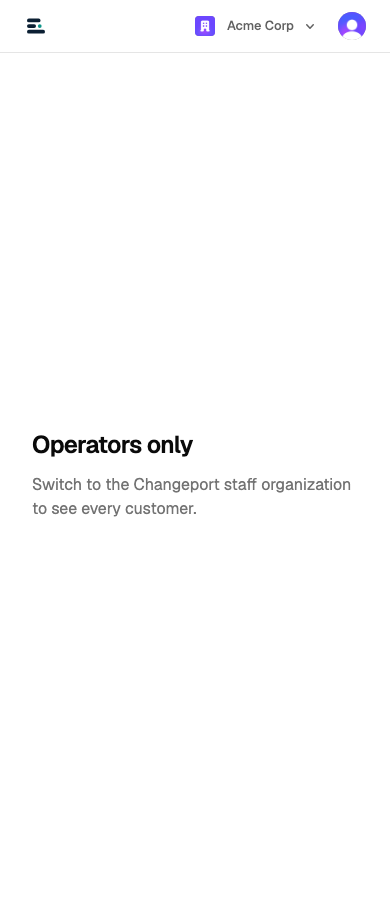
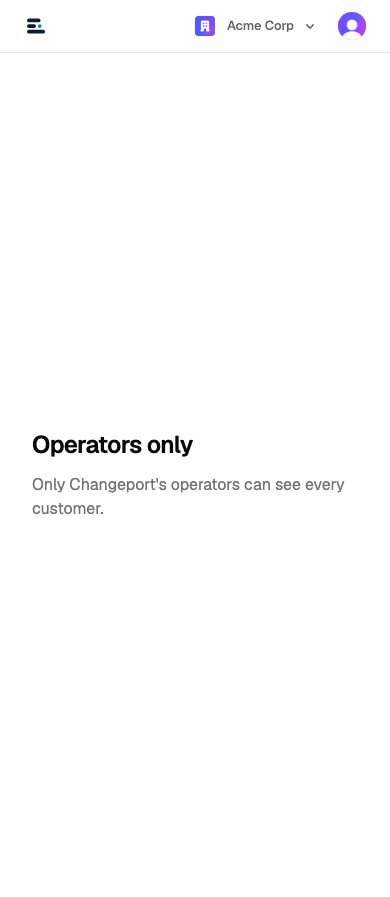
Tell customers the operator console is for operators, and plan the rest
Customers who opened /operator were told to switch to the staff
organization, which they cannot. The plan now lists the Phase 2 issues and
puts on-call alerting (#96) before the design partner's cluster.

Changed region(s): [[0.0923, 0.5307, 0.8923, 0.5931], [0.8615, 0.0, 0.9538, 0.0624], [0.4923, 0.0, 0.5538, 0.0624]]

diff --git a/web/src/pages/operator/OperatorCustomers.tsx b/web/src/pages/operator/OperatorCustomers.tsx
@@ -16,7 +16,7 @@ export function OperatorsOnly({ children }: { children: ReactNode }) {
   if (me.isError || me.data.access !== "operator") {
     return (
       <Notice title="Operators only">
-        Switch to the Changeport staff organization to see every customer.
+        Only Changeport&apos;s operators can see every customer.
       </Notice>
     );
   }

diff --git a/docs/PROJECT_PLAN.md b/docs/PROJECT_PLAN.md
@@ -197,7 +197,7 @@ Each phase is a [GitHub milestone](https://github.com/ReneP92/changeport/milesto
 | [Phase 8: Migration wizard](https://github.com/ReneP92/changeport/milestone/9) | 4–6 | Apr 14, 2028 | MirrorMaker 2 replication, offset translation, cutover validation |
 | [Phase 9: CDC product](https://github.com/ReneP92/changeport/milestone/10) | 13+ | Jul 14, 2028 | Postgres to Snowflake: own sink engine, idempotent merges, watermark backfills, slot monitoring |
 
-Phase 0 and Phase 1 are broken into issues, plus the first console slice and the KIP-714 telemetry receiver in Phase 2 and the proxy decision parked in Phase 6. Later phases get issues as each one starts.
+Phase 0 and Phase 1 are broken into issues, and so is Phase 2: the first console slice, the KIP-714 telemetry receiver, the topology map, customer alerts (#97), the change timeline (#98) and the topic tail (#99). The proxy decision is parked in Phase 6. Later phases get issues as each one starts.
 
 The first console slice is built ahead of the roadmap, on kind, while the AWS work waits for the accounts and the domain: a customer's cluster overview, topic management with guardrails and consumer lag in seconds, plus an operator console that provisions customers. Topic management and the operator console pull work forward from Phases 3 and 5. It is tracked in [the Phase 2 milestone](https://github.com/ReneP92/changeport/milestone/3) as #46 to #58. The slice runs on kind; [docs/console.md](console.md) shows every screen, which `just ui-screenshots` captures again. Only the console on EKS (#58) is left, waiting for the AWS accounts and the domain. The wireframes of #5 gave way to building the console and refining it on the real UI; what is still to design is the [live topology map](https://github.com/ReneP92/changeport/issues/71) and the [guided first ten minutes](https://github.com/ReneP92/changeport/issues/72).
 
@@ -269,4 +269,4 @@ Decided:
 
 Deferred to Phase 6: [decide whether to adopt the topic-rewriting proxy](https://github.com/ReneP92/changeport/issues/2).
 
-Phase 1 is tracked as 18 issues in the [Phase 1 milestone](https://github.com/ReneP92/changeport/milestone/2). The critical path runs through the AWS accounts (#10), the domain (#8), the VPC (#15), EKS (#16), the dev environment (#28) and its end-to-end test (#29), then prod (#31) and the design partner's cluster (#33). The work on kind (#19 to #27) needs no AWS and runs alongside. The estimate is about 41 to 45 working days against about 32 in the milestone, so the AWS and domain work starts during Phase 0, and the design partner's cluster may move into early January.
+Phase 1 is tracked in the [Phase 1 milestone](https://github.com/ReneP92/changeport/milestone/2). The critical path runs through the AWS accounts (#10), the domain (#8), the VPC (#15), EKS (#16), the dev environment (#28) and its end-to-end test (#29), then prod (#31) and the design partner's cluster (#33), which waits for on-call alerting (#96) too. The work on kind (#19 to #27, and #96) needs no AWS and runs alongside. The estimate is about 41 to 45 working days against about 32 in the milestone, so the AWS and domain work starts during Phase 0, and the design partner's cluster may move into early January.
